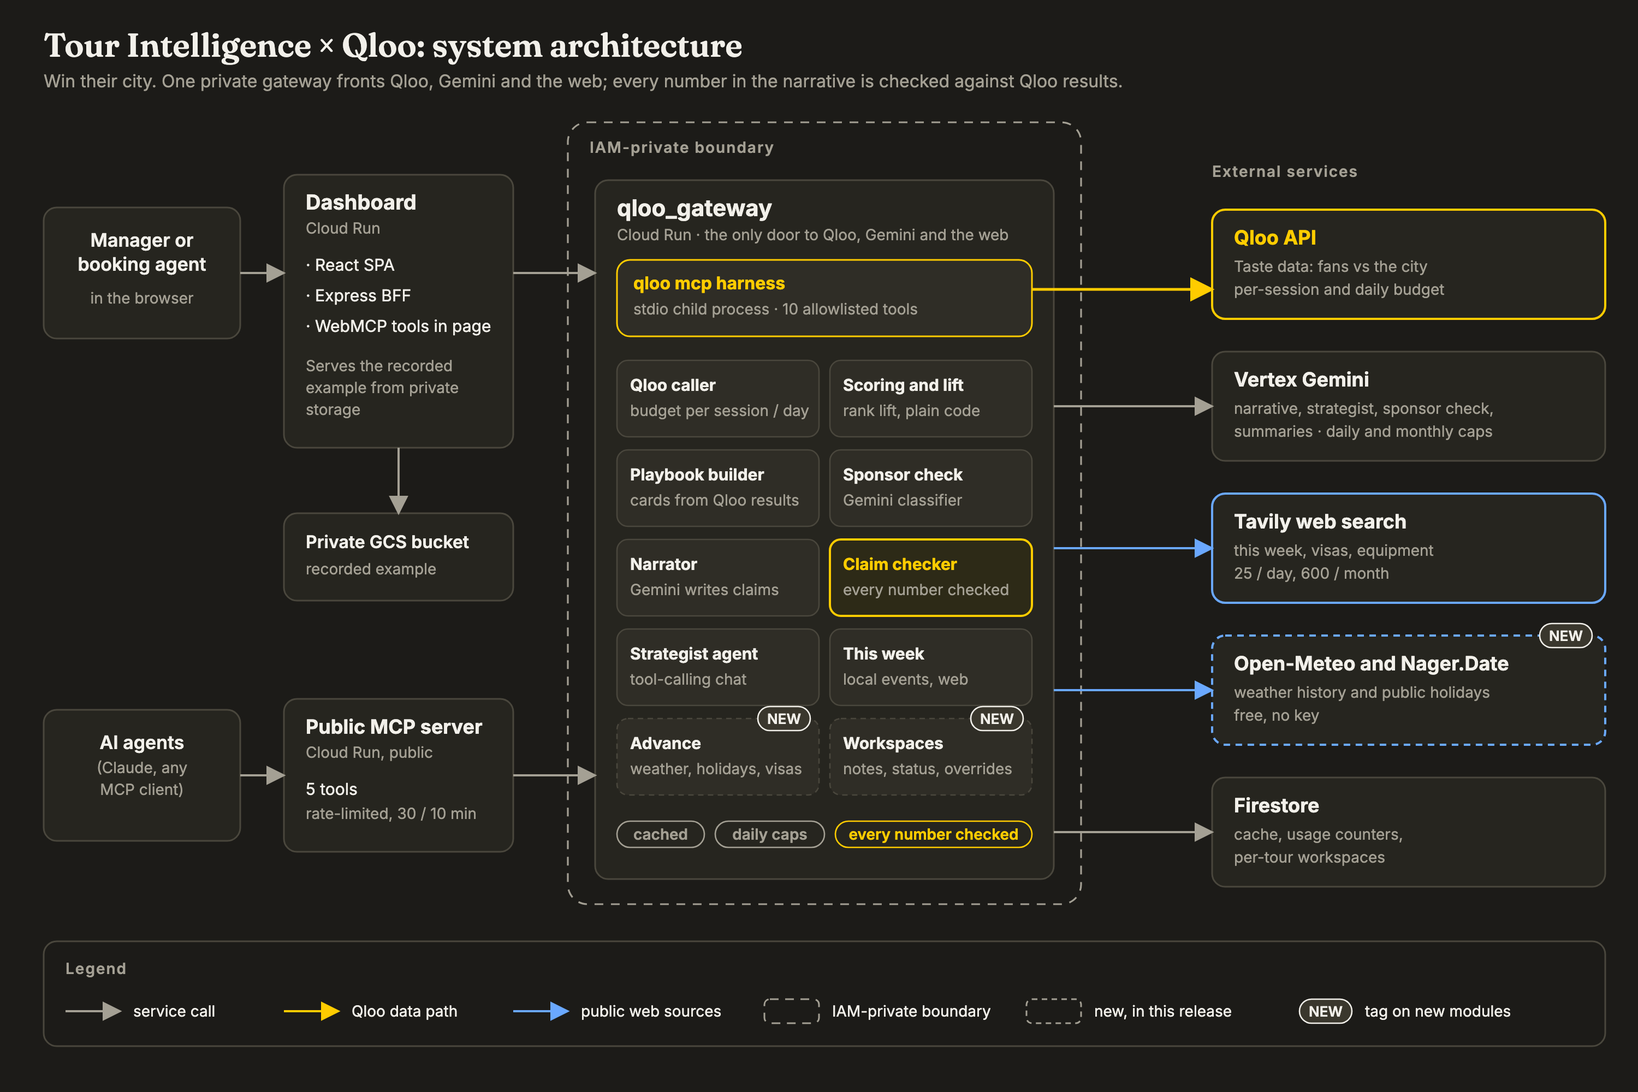
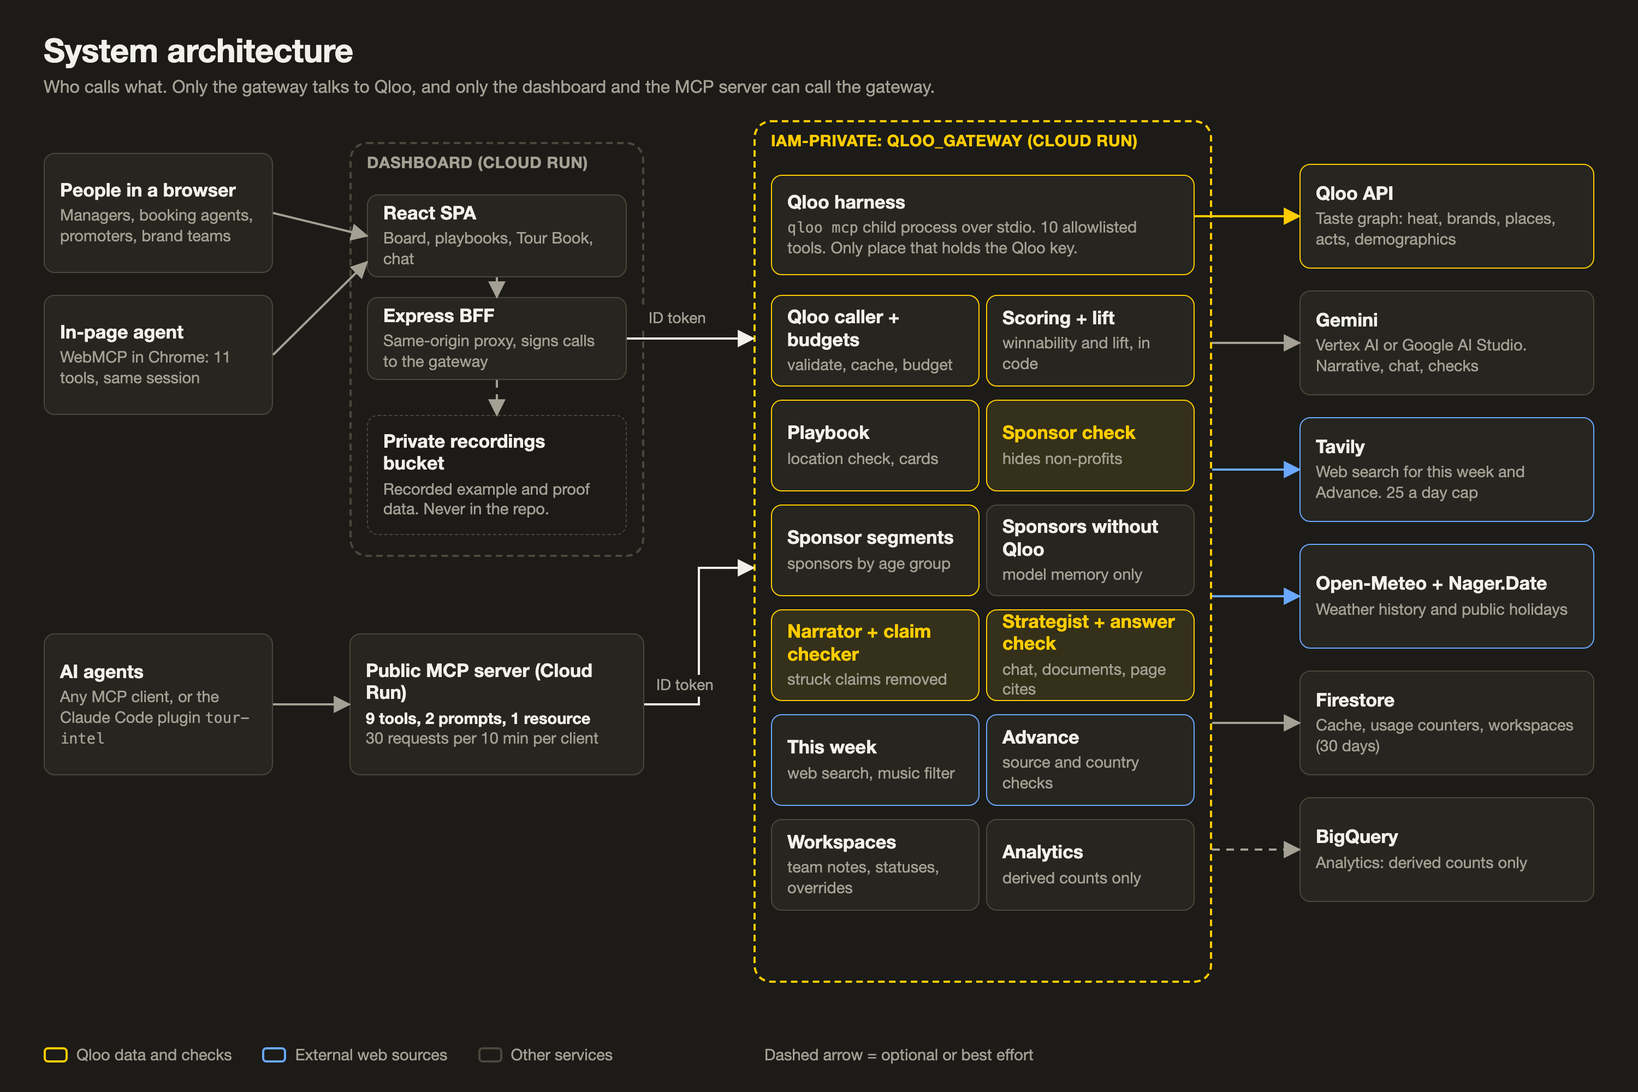
docs(diagrams): redraw architecture and playbook flow; add documents, analytics and trust diagrams with HTML sources
Claude-Session: https://claude.ai/code/session_01RoXtRPhAR8oeZDqtw81J35

diff --git a/docs/diagrams/src/architecture.html b/docs/diagrams/src/architecture.html
@@ -1,0 +1,59 @@
+<!doctype html><html><head><meta charset="utf-8"><link rel="stylesheet" href="base.css"></head><body><div id="c"></div>
+<script src="lib.js"></script><script>
+title("System architecture", "Who calls what. Only the gateway talks to Qloo, and only the dashboard and the MCP server can call the gateway.");
+// users
+box(40, 140, 210, 110, "People in a browser", "Managers, booking agents, promoters, brand teams");
+box(40, 270, 210, 110, "In-page agent", "WebMCP in Chrome: 11 tools, same session");
+box(40, 580, 210, 130, "AI agents", "Any MCP client, or the Claude Code plugin <span class='mono'>tour-intel</span>");
+// dashboard
+zone(320, 130, 270, 380, "", "grey"); h("Dashboard (Cloud Run)", "zlabel grey", 336, 140);
+box(336, 178, 238, 76, "React SPA", "Board, playbooks, Tour Book, chat");
+box(336, 272, 238, 76, "Express BFF", "Same-origin proxy, signs calls to the gateway");
+box(336, 380, 238, 110, "Private recordings bucket", "Recorded example and proof data. Never in the repo.", "dim");
+// MCP
+box(320, 580, 270, 130, "Public MCP server (Cloud Run)", "<b>9 tools, 2 prompts, 1 resource</b><br>30 requests per 10 min per client");
+// arrows users
+arrow([[250, 195], [336, 216]]); arrow([[250, 325], [336, 240]], {c: "m"});
+arrow([[250, 645], [320, 645]]);
+arrow([[455, 254], [455, 272]]); arrow([[455, 348], [455, 380]], {dash: true});
+// gateway zone
+zone(690, 110, 420, 790, "", ""); h("IAM-private: qloo_gateway (Cloud Run)", "zlabel", 706, 120);
+box(706, 160, 388, 92, "Qloo harness", "<span class='mono'>qloo mcp</span> child process over stdio. 10 allowlisted tools. Only place that holds the Qloo key.", "qloo");
+const L = 706, R = 903, W = 191, H = 84, G = 12; let Y = 270;
+const chips = [
+  ["Qloo caller + budgets", "validate, cache, budget", "qloo"],
+  ["Scoring + lift", "winnability and lift, in code", "qloo"],
+  ["Playbook", "location check, cards", "qloo"],
+  ["Sponsor check", "hides non-profits", "check"],
+  ["Sponsor segments", "sponsors by age group", "qloo"],
+  ["Sponsors without Qloo", "model memory only", ""],
+  ["Narrator + claim checker", "struck claims removed", "check"],
+  ["Strategist + answer check", "chat, documents, page cites", "check"],
+  ["This week", "web search, music filter", "web"],
+  ["Advance", "source and country checks", "web"],
+  ["Workspaces", "team notes, statuses, overrides", ""],
+  ["Analytics", "derived counts only", ""],
+];
+chips.forEach((c, i) => { const col = i % 2, row = Math.floor(i / 2); box(col ? R : L, Y + row * (H + G), W, H, c[0], c[1], c[2]); });
+// arrows into gateway
+arrow([[574, 310], [690, 310]], {c: "t"}); lbl(588, 282, "ID token", "");
+arrow([[590, 645], [640, 645], [640, 520], [690, 520]], {c: "t"}); lbl(595, 618, "ID token", "");
+// externals
+const X = 1190, EW = 270, EH = 96;
+const ex = [
+  [150, "Qloo API", "Taste graph: heat, brands, places, acts, demographics", "qloo"],
+  [266, "Gemini", "Vertex AI or Google AI Studio. Narrative, chat, checks", ""],
+  [382, "Tavily", "Web search for this week and Advance. 25 a day cap", "web"],
+  [498, "Open-Meteo + Nager.Date", "Weather history and public holidays", "web"],
+  [614, "Firestore", "Cache, usage counters, workspaces (30 days)", ""],
+  [730, "BigQuery", "Analytics: derived counts only", ""],
+];
+ex.forEach((e) => box(X, e[0], EW, EH, e[1], e[2], e[3]));
+arrow([[1094, 198], [X, 198]], {c: "y"});
+arrow([[1110, 314], [X, 314]]); arrow([[1110, 430], [X, 430]], {c: "b"}); arrow([[1110, 546], [X, 546]], {c: "b"});
+arrow([[1110, 662], [X, 662]]); arrow([[1110, 778], [X, 778]], {dash: true});
+// legend
+legend([["#ffcc00", "Qloo data and checks"], ["#6aa8ff", "External web sources"], ["#4a473c", "Other services", "border-style:solid"]]);
+h("Dashed arrow = optional or best effort", "legend", 700, 0).style.top = "auto";
+finish();
+</script></body></html>

diff --git a/docs/diagrams/src/playbook-flow.html b/docs/diagrams/src/playbook-flow.html
@@ -1,0 +1,30 @@
+<!doctype html><html><head><meta charset="utf-8"><link rel="stylesheet" href="base.css"><style>.tag{font-size:13.5px;font-weight:700;letter-spacing:.5px;text-transform:uppercase;color:var(--muted);margin-bottom:6px}.tag.y{color:var(--accent)}.tag.b{color:var(--web)}</style></head><body><div id="c"></div>
+<script src="lib.js"></script><script>
+title("One city playbook, step by step", "Scores and lift are deterministic code. The model writes words only, and every claim it makes is checked.");
+const BW = 320, BH = 236, XS = [40, 400, 760, 1120];
+function step(i, x, y, tag, tcls, t, s, kind) {
+  const b = h(`<div class="tag ${tcls}">${tag}</div><div class="t">${t}</div><div class="s">${s}</div>`, "box " + kind, x, y, BW, BH);
+  b.style.justifyContent = "flex-start"; b.style.paddingTop = "40px";
+  num(x + 14, y - 15, i, tcls === "b" ? "" : "");
+}
+const y1 = 150, y2 = 470;
+step(1, XS[0], y1, "Qloo", "y", "Location check", "Asks where the artist is popular in the city. The 20 heat points must sit near the city (3 or more, median within 50 km). <b>If none of up to 3 place names pass, stop: no playbook.</b>", "qloo");
+step(2, XS[1], y1, "Qloo, cached", "y", "Qloo lookups", "Brands, places, films, TV, acts and the city's own top lists, all on the place that passed. Support acts must be smaller than the headliner.", "qloo");
+step(3, XS[2], y1, "Gemini, one call", "", "Sponsor check", "One batched question: could this brand sponsor a concert? Non-profits, advocacy, political and religious groups are removed <b>before ranking</b>.", "check");
+step(4, XS[3], y1, "Code", "", "Lift by rank", "Lift = how many places higher the fans rank a brand than the city does. No affinity maths: Qloo rescales each response.", "");
+step(5, XS[0], y2, "Code, streamed first", "", "Cards", "Sponsors, merch, promo zones, local moment, venues, co-billing, acts fans love here. They reach the browser before any narrative.", "");
+step(6, XS[1], y2, "Gemini", "", "Narrative", "Writes short claims, each listing the entities, numbers and Qloo evidence it relies on.", "");
+step(7, XS[2], y2, "Code", "y", "Claim checker", "Every number and every name must appear in the Qloo results the claim cites. A claim that fails is struck, never rewritten.", "check");
+step(8, XS[3], y2, "Browser", "", "Badge and panel", "Shows N verified, M removed, and a Checked-claims panel listing what was struck and why.", "");
+// arrows
+for (let i = 0; i < 3; i++) { arrow([[XS[i] + BW, y1 + BH / 2], [XS[i + 1], y1 + BH / 2]], {c: "t"}); arrow([[XS[i] + BW, y2 + BH / 2], [XS[i + 1], y2 + BH / 2]], {c: "t"}); }
+arrow([[XS[3] + BW / 2, y1 + BH], [XS[3] + BW / 2, 428], [XS[0] + BW / 2, 428], [XS[0] + BW / 2, y2]], {c: "t"});
+// bottom band
+zone(40, 750, 1400, 150, "", "grey");
+h("Where each part runs", "zlabel grey", 56, 760);
+h("<b style='color:#ffcc00'>Code, no model</b><br>Location check, lookups, lift, cards, claim checker and every score. No model decides a number.", "abs", 56, 795, 440).style.cssText += "font-size:15px;line-height:1.35;color:#a4a094";
+h("<b style='color:#f2f0ea'>Model, words only</b><br>Sponsor check and narrative. If Gemini is unavailable the cards still show; the narrative says so.", "abs", 520, 795, 440).style.cssText += "font-size:15px;line-height:1.35;color:#a4a094";
+h("<b style='color:#f2f0ea'>Checked, not trusted</b><br>The model's output is only kept where code can confirm it against the Qloo results.", "abs", 984, 795, 430).style.cssText += "font-size:15px;line-height:1.35;color:#a4a094";
+legend([["#ffcc00", "Qloo data and checks"], ["#4a473c", "Other steps", "border-style:solid"]]);
+finish();
+</script></body></html>

diff --git a/docs/diagrams/src/trust-layers.html b/docs/diagrams/src/trust-layers.html
@@ -1,0 +1,25 @@
+<!doctype html><html><head><meta charset="utf-8"><link rel="stylesheet" href="base.css"><style>.hd{font-size:14px;font-weight:700;letter-spacing:.5px;text-transform:uppercase;color:var(--muted)}.row{position:absolute;left:40px;width:1420px;height:92px;background:var(--panel);border:1.5px solid var(--line);border-radius:10px}.row.k{border-color:var(--accent)}.c{position:absolute;top:0;bottom:0;display:flex;flex-direction:column;justify-content:center;font-size:15.5px;line-height:1.3;color:var(--muted)}.c b{color:var(--text);font-weight:600}.n{font-size:18px;font-weight:700;color:var(--text)}.k .n{color:var(--accent)}</style></head><body><div id="c"></div>
+<script src="lib.js"></script><script>
+title("What stands between the model and you", "Each layer checks the model's output against the data or a fixed rule. Rates are from planted errors, not live traffic.");
+h("Layer", "hd abs", 70, 112); h("What it stops", "hd abs", 360, 112); h("How", "hd abs", 740, 112); h("Result", "hd abs", 1110, 112);
+const R = [
+  ["Claim checker", "A written claim with a number or name that is not in the Qloo results it cites", "Numbers and names must appear in the cited results. A failing claim is struck, never rewritten.", "<b>10 of 10</b> planted false claims removed", 1],
+  ["Strategist answer check", "A number in a chat answer that is in no tool result or board score", "Unmatched numbers are flagged on the answer.", "<b>20 of 20</b> caught; <b>0 of 20</b> false alarms", 1],
+  ["Document citation check", "A number cited to a page of your document that is not on that page", "A cited sentence is checked against its own page only.", "<b>20 of 20</b> caught; <b>0 of 20</b> false alarms", 1],
+  ["Advance filter", "Visa or equipment notes from another country's pages, or numbers not in the source", "Country check on each source, then every number must be in the item's own source.", "<b>20 of 20</b> caught; <b>0 of 20</b> false alarms", 1],
+  ["Sponsor check", "Non-profit, advocacy, political and religious groups on the sponsor card", "One batched model question plus a short disclosed name list. Unanswered brands are hidden.", "<b>18 of 20</b> caught; <b>3 of 20</b> false alarms. Name list alone: 12 of 20, 0 of 20", 1],
+  ["Do-not-book list", "Acts on a short list (currently one) appearing as picks", "Applied when the page is drawn. Affected cards say so.", "A rule, not a measured rate", 0],
+  ["Pre-registered tests", "Choosing the story after the results", "Protocol committed before any call, 10 dated amendments, losses published.", "Wins and losses on <span class='mono'>/proof</span>", 0],
+];
+R.forEach((r, i) => {
+  const y = 138 + i * 100;
+  const d = h("", "row" + (r[4] ? " k" : ""), 40, y);
+  d.style.top = y + "px";
+  const cell = (x, w, html) => { const c = document.createElement("div"); c.className = "c"; c.style.left = x + "px"; c.style.width = w + "px"; c.innerHTML = `<div>${html}</div>`; d.appendChild(c); };
+  cell(20, 300, `<span class="n">${i + 1}. ${r[0]}</span>`);
+  cell(320, 350, r[1]); cell(700, 340, r[2]); cell(1070, 330, r[3]);
+});
+h("These are checks, not comparisons, so there is no significance test. The fixtures are synthetic and small. The sponsor figure measures the rule against fixed fake classifier outputs, not the live model.", "abs", 40, 850, 1420).style.cssText += "font-size:15.5px;line-height:1.4;color:#a4a094";
+legend([["#ffcc00", "Measured with planted errors"], ["#4a473c", "Rule or process", "border-style:solid"]]);
+finish();
+</script></body></html>

diff --git a/docs/diagrams/src/analytics-flow.html b/docs/diagrams/src/analytics-flow.html
@@ -1,0 +1,30 @@
+<!doctype html><html><head><meta charset="utf-8"><link rel="stylesheet" href="base.css"><style>.box .s{font-size:15.5px}.list{list-style:none}.list li{font-size:16px;color:var(--muted);line-height:1.35;margin:0 0 9px 0;padding-left:22px;position:relative}.list li:before{content:"";position:absolute;left:2px;top:8px;width:8px;height:8px;border-radius:50%;background:var(--accent)}.list.no li:before{background:none;content:"\2715";top:0;left:0;width:auto;height:auto;color:var(--muted);font-size:15px}.list b{color:var(--text);font-weight:600}</style></head><body><div id="c"></div>
+<script src="lib.js"></script><script>
+title("What goes to BigQuery", "Optional and off by default. Only counts and labels are written. Test traffic is flagged and left out.");
+// sources
+h("Written by the gateway", "zlabel grey", 40, 118);
+box(40, 150, 330, 92, "Playbook runs", "One row per city playbook stream");
+box(40, 262, 330, 92, "Team workspace writes", "Status, note, override, lead events");
+box(40, 374, 330, 92, "/v2 prototype taps", "Going, waitlist, was there");
+// buffer
+box(420, 150, 230, 316, "Buffer", "Fire-and-forget. 20 rows or 5 seconds. Never awaited on a request, never throws. On any failure the app behaves as before.", "check");
+[[196], [308], [420]].forEach(([y]) => arrow([[370, y], [420, y]], {c: "t"}));
+// BigQuery
+zone(700, 135, 340, 345, "BigQuery, day-partitioned", "grey");
+box(716, 175, 308, 84, "playbook_runs", "source, cards, claims, latency");
+box(716, 273, 308, 84, "team_events", "event type, role, overrode Qloo");
+box(716, 371, 308, 84, "v2_outcome_taps", "experience, action");
+arrow([[650, 308], [700, 308]], {c: "y"});
+// stats + proof
+h("Read back", "zlabel grey", 1090, 118);
+box(1090, 150, 350, 150, "Stats routes", "<span class='mono'>/v1/stats/trust, team, v2</span><br>Rows where test is false. Last 90 days, cached 60 s. Off or failing: <span class='mono'>{enabled:false}</span>.");
+box(1090, 336, 350, 130, "/proof live panels", "Trust meter and team decisions. Hidden when analytics are off.", "check");
+arrow([[1040, 225], [1090, 225]], {c: "t"}); arrow([[1265, 300], [1265, 336]], {c: "t"});
+// written / never
+zone(40, 520, 680, 300, "", "grey"); h("Written", "zlabel", 56, 532);
+h(`<ul class="list"><li><b>Counts</b>: cards ok or empty, claims verified and removed, sponsors hidden, Qloo calls and cache hits</li><li><b>Latency</b>, narrative status, error code</li><li><b>City and country</b> as typed, card kinds, team event type, role</li><li><b>Hashed ids</b>: sha256 of session and workspace ids</li><li><b>Test flag</b>: session id starting <span class="mono">e2e-</span> or <span class="mono">test-</span>, or header <span class="mono">x-tiq-test: 1</span></li></ul>`, "abs", 56, 572, 648);
+zone(760, 520, 680, 300, "", "grey"); h("Never written", "zlabel grey", 776, 532);
+h(`<ul class="list no"><li><b>Qloo results</b>: entity names, affinities, card items</li><li><b>Note and lead text</b>, people's names</li><li><b>The artist name</b></li><li><b>Document text</b> from the chat</li><li><b>Raw ids and IPs</b>: raw session or workspace ids, IP addresses</li></ul><div style="font-size:15px;color:#a4a094;margin-top:14px">Logging is best effort, so counts are indicative, not an audit log.</div>`, "abs", 776, 572, 648);
+legend([["#ffcc00", "Write path and checks"], ["#4a473c", "Other", "border-style:solid"]]);
+finish();
+</script></body></html>

diff --git a/docs/diagrams/src/documents-privacy.html b/docs/diagrams/src/documents-privacy.html
@@ -1,0 +1,34 @@
+<!doctype html><html><head><meta charset="utf-8"><link rel="stylesheet" href="base.css"><style>.box .s{font-size:16.5px}.box .t{font-size:19px}.x{color:var(--muted);font-size:22px;font-weight:700;margin-right:6px}.tag{font-size:13.5px;font-weight:700;letter-spacing:.5px;text-transform:uppercase;color:var(--muted);margin-bottom:6px}</style></head><body><div id="c"></div>
+<script src="lib.js"></script><script>
+title("What happens to a document you add", "Files are read in your browser. Their text goes to the model with your question and nowhere else.");
+const XS = [40, 328, 616, 904, 1192], BW = 250, BH = 250, Y = 190;
+zone(28, 135, 562, 370, "Stays in your tab", "grey");
+zone(606, 135, 866, 370, "Server side, for this one request", "");
+const S = [
+  ["1", "Your file", "<b>.pdf, .txt, .md or .csv.</b> Up to 3 files, 40 pages and 60,000 characters in total.", "dim"],
+  ["2", "Text read in the tab", "A PDF is read with pdf.js in the browser. Plain text is cut into numbered sections so a citation can point at one.", ""],
+  ["3", "One strategist request", "Only the text travels, inside <span class='mono'>POST /v1/strategist</span> with your question. Control characters are stripped.", ""],
+  ["4", "Gemini", "Each page is marked <span class='mono'>[doc:id p.n]</span>. The model is told the files are data, not instructions, and to cite pages. The text is sent to Google's model.", ""],
+  ["5", "Answer check", "A sentence that cites a page has its numbers checked against that page. A wrong page or an absent number is flagged.", "check"],
+];
+S.forEach((s, i) => {
+  const b = h(`<div class="tag">${s[0]}</div><div class="t">${s[1]}</div><div class="s">${s[2]}</div>`, "box " + s[3], XS[i], Y, BW, BH);
+  b.style.justifyContent = "flex-start"; b.style.paddingTop = "16px";
+  if (i < 4) arrow([[XS[i] + BW, Y + 125], [XS[i + 1], Y + 125]], {c: "t"});
+});
+h("What does not happen", "zlabel grey", 40, 545);
+const N = [
+  ["Qloo", "Tool arguments are validated names. A string of 40 or more characters that quotes a document is rejected before any call."],
+  ["Cache", "No cache entry is made. The strategist has no response cache."],
+  ["Database", "Nothing is written to Firestore, BigQuery or a team workspace."],
+  ["Logs", "Request bodies are never logged. An error prints its name only."],
+  ["After you close the tab", "Nothing is kept anywhere. Add the file again next time."],
+];
+N.forEach((n, i) => {
+  const b = h(`<div class="t"><span class="x">&#10005;</span>${n[0]}</div><div class="s">${n[1]}</div>`, "box dim", XS[i], 585, BW, 210);
+  b.style.justifyContent = "flex-start"; b.style.paddingTop = "18px";
+});
+h("Numbers are checked, claims in words are not. A scanned PDF without a text layer gives no text; there is no OCR.", "abs", 40, 830, 1400).style.cssText += "font-size:15.5px;color:#a4a094";
+legend([["#ffcc00", "Checker"], ["#4a473c", "Step", "border-style:solid"], ["#4a473c", "Does not happen", "border-style:dashed"]]);
+finish();
+</script></body></html>

diff --git a/docs/diagrams/src/base.css b/docs/diagrams/src/base.css
@@ -1,0 +1,32 @@
+:root { --bg:#1c1b18; --text:#f2f0ea; --muted:#a4a094; --accent:#ffcc00; --web:#6aa8ff; --panel:#26251f; --line:#4a473c; --ok:#8fd694; }
+* { box-sizing: border-box; margin: 0; padding: 0; }
+html, body { background: var(--bg); }
+body { width: 1500px; height: 1000px; overflow: hidden; color: var(--text); font-family: "Helvetica Neue", Helvetica, Arial, sans-serif; }
+#c { position: relative; width: 1500px; height: 1000px; background: var(--bg); }
+.abs { position: absolute; }
+h1 { position: absolute; left: 40px; top: 28px; font-size: 30px; font-weight: 700; letter-spacing: -0.2px; }
+.sub { position: absolute; left: 40px; top: 70px; font-size: 16px; color: var(--muted); }
+.box { position: absolute; background: var(--panel); border: 1.5px solid var(--line); border-radius: 10px; padding: 10px 14px; display: flex; flex-direction: column; justify-content: center; }
+.box .t { font-size: 17px; font-weight: 700; line-height: 1.2; }
+.box .s { font-size: 14.5px; color: var(--muted); line-height: 1.3; margin-top: 4px; }
+.box .s b { color: var(--text); font-weight: 600; }
+.box.qloo { border-color: var(--accent); }
+.box.web { border-color: var(--web); }
+.box.check { border-color: var(--accent); background: #34301a; }
+.box.check .t { color: var(--accent); }
+.box.dim { background: transparent; border-style: dashed; }
+.box.plain { background: transparent; border: none; padding: 0; }
+.zone { position: absolute; border: 2px dashed var(--accent); border-radius: 16px; }
+.zone.grey { border-color: var(--line); }
+.zlabel { position: absolute; font-size: 14.5px; font-weight: 700; color: var(--accent); letter-spacing: 0.4px; text-transform: uppercase; }
+.zlabel.grey { color: var(--muted); }
+.lbl { position: absolute; background: var(--bg); font-size: 14px; color: var(--muted); padding: 1px 6px; line-height: 1.25; text-align: center; }
+.lbl.y { color: var(--accent); } .lbl.b { color: var(--web); }
+.num { position: absolute; width: 30px; height: 30px; border-radius: 50%; background: var(--accent); color: #1c1b18; font-weight: 800; font-size: 17px; display: flex; align-items: center; justify-content: center; }
+.num.b { background: var(--web); }
+svg.over { position: absolute; left: 0; top: 0; width: 1500px; height: 1000px; pointer-events: none; }
+.legend { position: absolute; left: 40px; bottom: 26px; display: flex; gap: 28px; font-size: 14.5px; color: var(--muted); align-items: center; }
+.legend i { display: inline-block; width: 22px; height: 14px; border: 2px solid; border-radius: 4px; margin-right: 8px; vertical-align: -2px; }
+code, .mono { font-family: "SF Mono", Menlo, Consolas, monospace; font-size: 0.93em; }
+
+.lbl, .num { z-index: 5; } svg.over { z-index: 3; } .box { z-index: 2; }

diff --git a/docs/diagrams/src/lib.js b/docs/diagrams/src/lib.js
@@ -1,0 +1,28 @@
+const NS = "http://www.w3.org/2000/svg";
+const C = document.getElementById("c");
+const COL = { y: "#ffcc00", b: "#6aa8ff", m: "#a4a094", t: "#f2f0ea", g: "#8fd694" };
+const svg = document.createElementNS(NS, "svg");
+svg.setAttribute("class", "over");
+svg.innerHTML = `<defs>${Object.entries(COL).map(([k, c]) => `<marker id="m${k}" viewBox="0 0 10 10" refX="9" refY="5" markerWidth="8" markerHeight="8" orient="auto-start-reverse"><path d="M0,0 L10,5 L0,10 z" fill="${c}"/></marker>`).join("")}</defs>`;
+function px(n) { return n + "px"; }
+function h(html, cls, x, y, w, hh) { const d = document.createElement("div"); d.className = cls; d.style.left = px(x); d.style.top = px(y); if (w) d.style.width = px(w); if (hh) d.style.height = px(hh); d.innerHTML = html; C.appendChild(d); return d; }
+function title(t, s) { const a = document.createElement("h1"); a.textContent = t; C.appendChild(a); if (s) { const b = document.createElement("div"); b.className = "sub"; b.innerHTML = s; C.appendChild(b); } }
+function zone(x, y, w, hh, label, cls = "") { h("", "zone " + cls, x, y, w, hh); if (label) h(label, "zlabel " + (cls.includes("grey") ? "grey" : ""), x + 16, y + 10); }
+function box(x, y, w, hh, t, s, kind = "") { return h(`<div class="t">${t}</div>${s ? `<div class="s">${s}</div>` : ""}`, "box " + kind, x, y, w, hh); }
+function lbl(x, y, html, cls = "", w) { return h(html, "lbl " + cls, x, y, w); }
+function num(x, y, n, cls = "") { return h(String(n), "num " + cls, x, y); }
+// arrow(points, {c: 'y'|'b'|'m'|'t', dash, both, w})
+function arrow(pts, o = {}) {
+  const c = o.c || "m";
+  const p = document.createElementNS(NS, "path");
+  p.setAttribute("d", "M" + pts.map((q) => q.join(",")).join(" L"));
+  p.setAttribute("fill", "none"); p.setAttribute("stroke", COL[c]); p.setAttribute("stroke-width", o.w || 2);
+  if (o.dash) p.setAttribute("stroke-dasharray", "7 6");
+  p.setAttribute("marker-end", `url(#m${c})`);
+  if (o.both) p.setAttribute("marker-start", `url(#m${c})`);
+  svg.appendChild(p);
+}
+function legend(items) { h(items.map(([c, t, st]) => `<span><i style="border-color:${c};${st || ""}"></i>${t}</span>`).join(""), "legend", 40, 0).style.top = "auto"; }
+document.addEventListener("DOMContentLoaded", () => {});
+window.__svg = svg;
+function finish() { C.appendChild(svg); }
